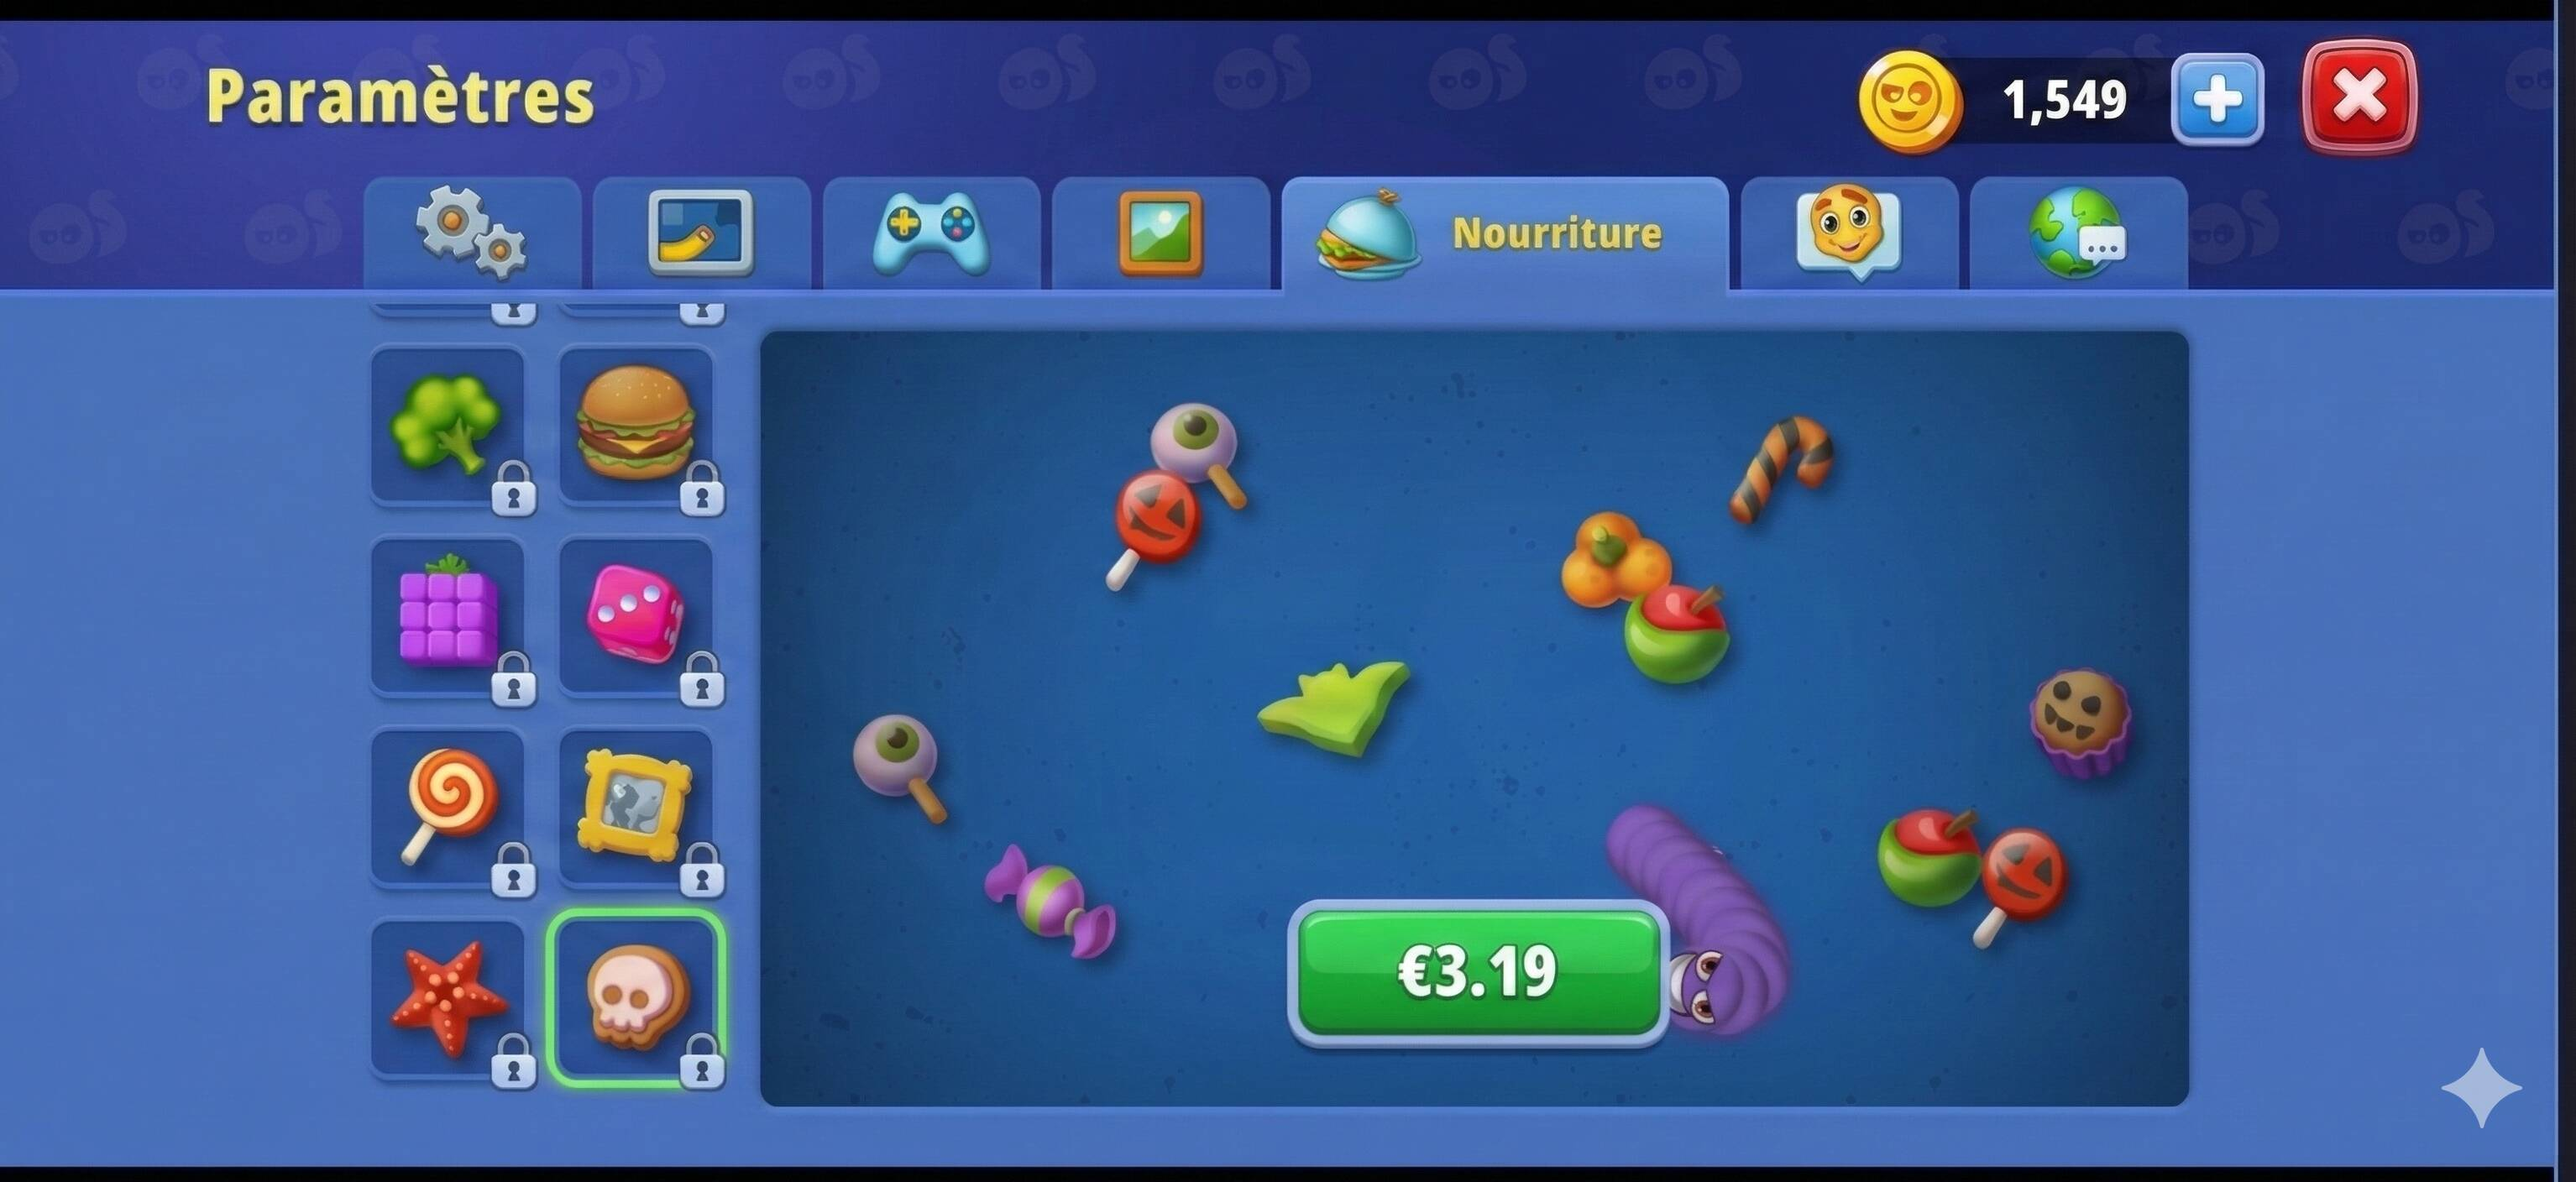
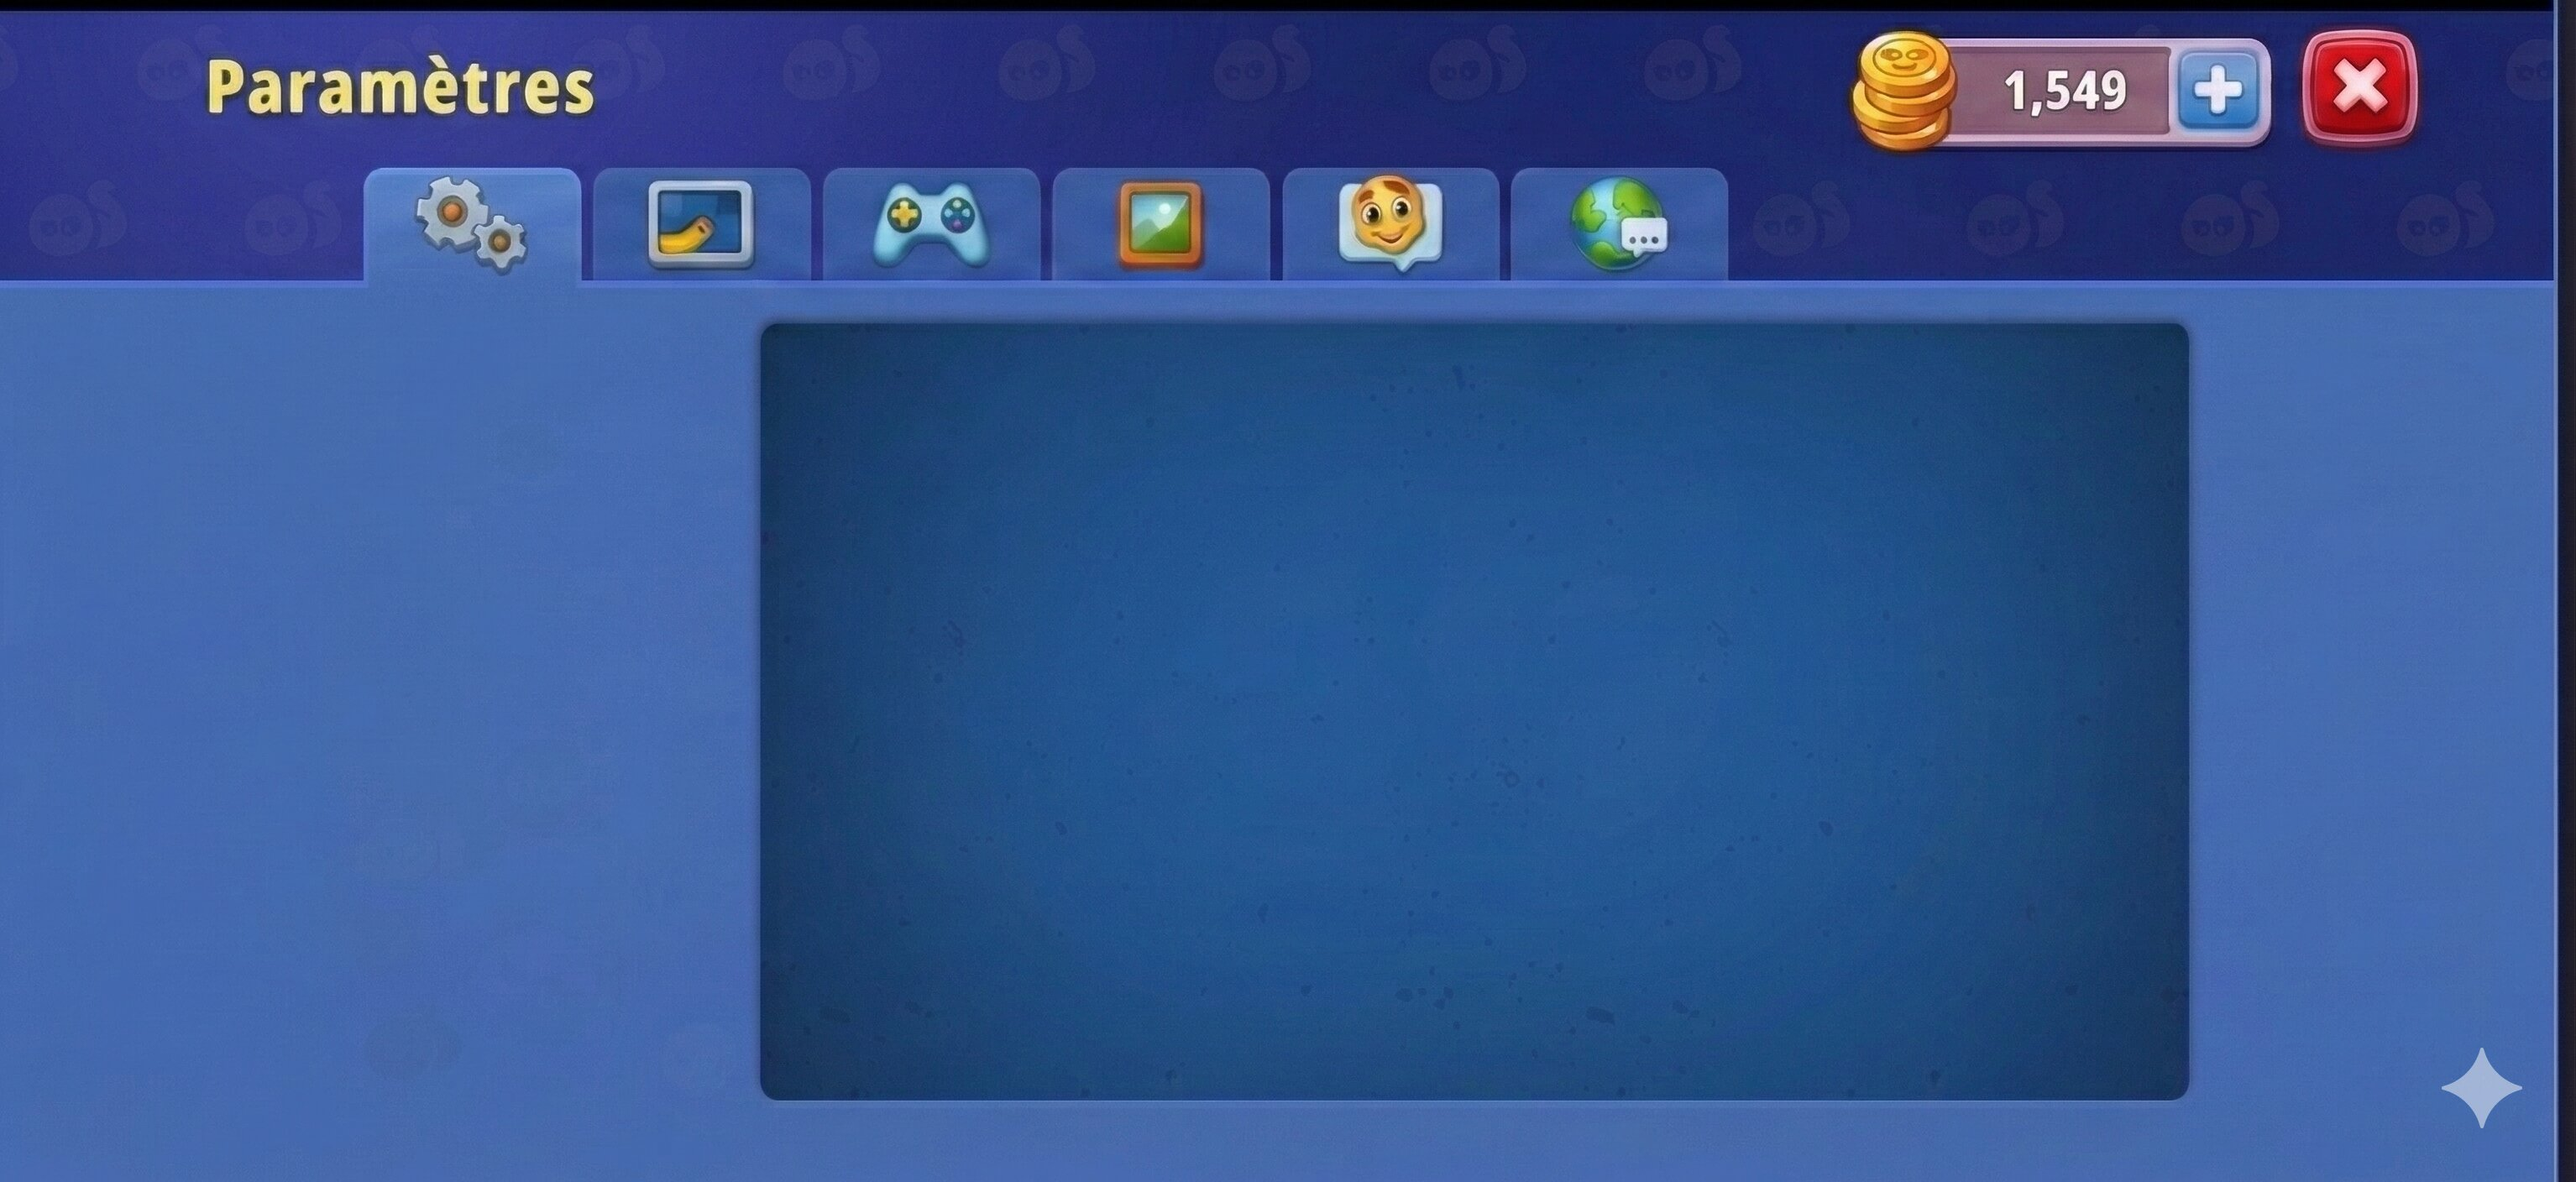
Add buy button overlay on food tab, round flag previews, update food background

diff --git a/app/settings.tsx b/app/settings.tsx
@@ -111,7 +111,8 @@ export default function SettingsPage() {
   };
 
   const goBack = () => {
-    router.back();
+    if (router.canGoBack()) router.back();
+    else router.replace("/(game)" as any);
   };
 
   const selectedPack = FOOD_PACKS.find((p) => p.id === foodStyle) || FOOD_PACKS[0];
@@ -135,9 +136,11 @@ export default function SettingsPage() {
           <Text style={[styles.tabText, tab === "food" && styles.tabTextActive]}>{t("foodStyleTitle")}</Text>
         </Pressable>
         <View style={{ flex: 1 }} />
-        <Pressable onPress={goBack}>
-          <Image source={require("../assets/close-red-btn.png")} style={{ width: 50, height: 50 }} />
-        </Pressable>
+        {tab === "settings" && (
+          <Pressable onPress={goBack}>
+            <Image source={require("../assets/close-red-btn.png")} style={{ width: 50, height: 50 }} />
+          </Pressable>
+        )}
       </View>
 
       {tab === "settings" ? (
@@ -180,12 +183,20 @@ export default function SettingsPage() {
           <View style={{ height: 80 }} />
         </ScrollView>
       ) : (
-        /* Food tab — full screen image */
-        <Image
-          source={{ uri: "/food-preview.jpg" }}
-          style={{ flex: 1, width: "100%" as any, height: "100%" as any }}
-          resizeMode="cover"
-        />
+        /* Food tab — full screen image with close button over the drawn X */
+        <View style={{ flex: 1 }}>
+          <Image
+            source={{ uri: "/food-preview.jpg" }}
+            style={{ flex: 1, width: "100%" as any, height: "100%" as any }}
+            resizeMode="cover"
+          />
+          <Pressable onPress={() => setTab("settings")} style={{ position: "absolute", top: "-0.5%", right: "5.5%" }}>
+            <Image source={require("../assets/close-red-btn.png")} style={{ width: 65, height: 65 }} />
+          </Pressable>
+          <Pressable onPress={() => {}} style={{ position: "absolute", top: "76%", left: "49%", width: "17%", height: "16%" }}>
+            <Image source={require("../assets/buy-btn.png")} style={{ width: "100%" as any, height: "100%" as any, resizeMode: "stretch" }} />
+          </Pressable>
+        </View>
       )}
     </View>
   );

diff --git a/src/components/ShopScreen.tsx b/src/components/ShopScreen.tsx
@@ -1029,10 +1029,10 @@ const shopStyles: Record<string, React.CSSProperties> = {
     whiteSpace: 'nowrap',
   },
   flagPreview: {
-    width: 52,
-    height: 36,
+    width: 44,
+    height: 44,
     objectFit: 'cover',
-    borderRadius: 6,
+    borderRadius: '50%',
     border: '1px solid rgba(255,255,255,0.15)',
     flexShrink: 0,
   },
